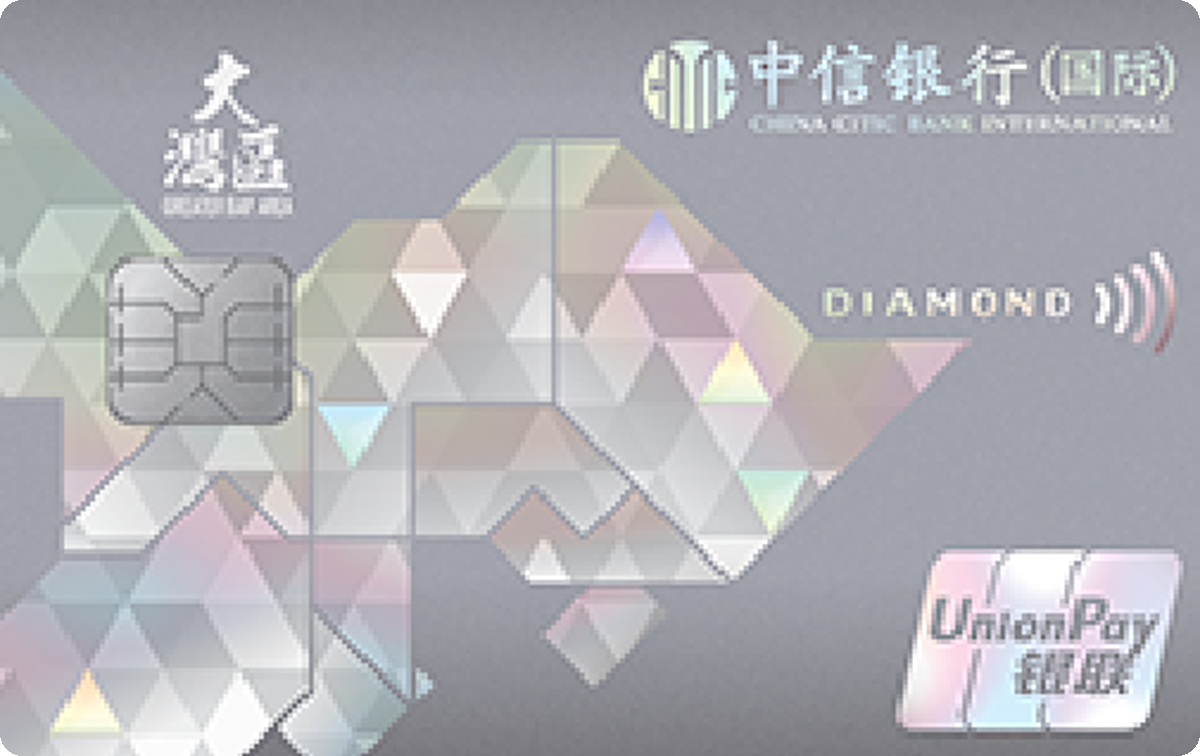
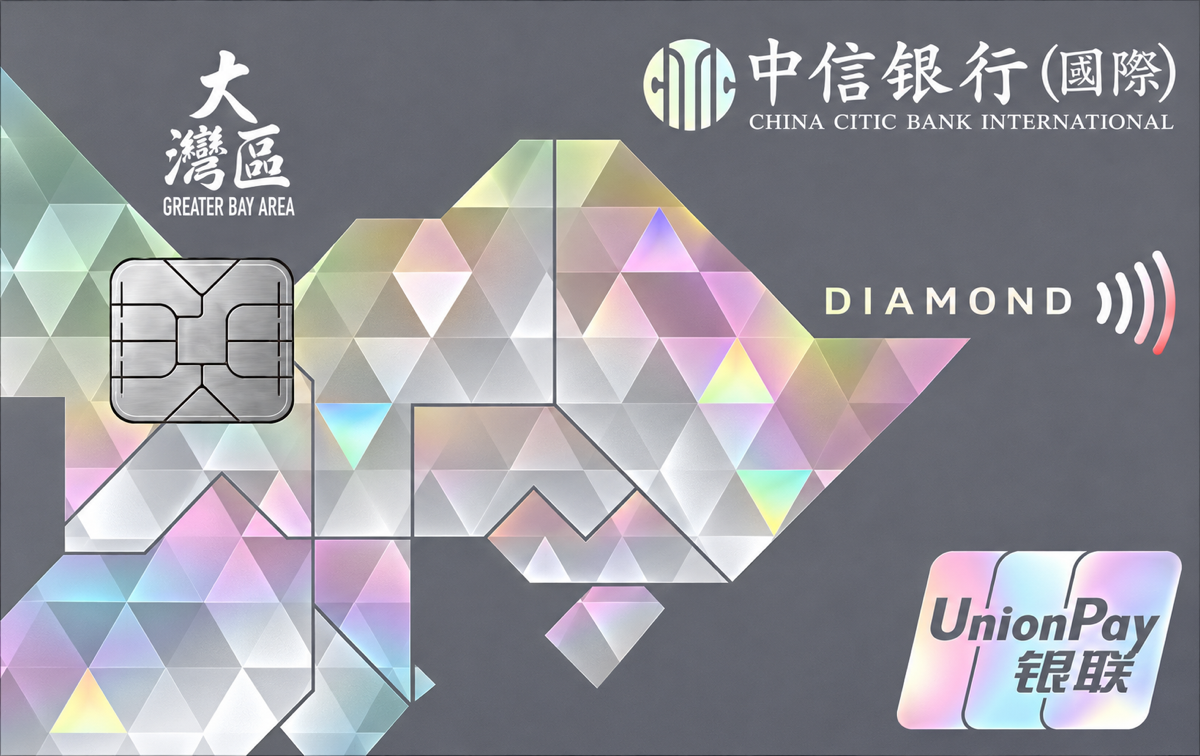
Replace blurry GBA card artwork with crisp reference-based assets (#9)

diff --git a/docs/artwork-2026-11-03.md b/docs/artwork-2026-11-03.md
@@ -1,0 +1,32 @@
+# GBA 卡面清晰化
+
+日期：2026-11-03。用户明确要求用 imagegen 重绘并覆盖模糊的两张现有素材。只更换图片和资源哈希，不改银行、产品、等级、活动或使用指南。版本 2026110301，8 家银行 / 24 产品。
+
+两张均为参考原卡面重新生成的清晰示意，非银行新发布原图；按自用约定不在 App 产品说明中显示制作标注。本文件保存来源与提示词供维护。
+
+## 大湾区青年卡 · bochk.gba.youth
+
+- 官方产品页：https://www.bochk.com/tc/creditcard/details/cobrand/cobrand/gbayouth.html
+- 官方样图：https://www.bochk.com/dam/boccreditcard/cardproductlisting/images/layout/credit-card/cardType_219.png
+- 本次核对官网横幅：https://www.bochk.com/dam/boccreditcard/cbc/GBA_card_Large_banner_1920x280.jpg
+- 编辑参考：原资料库的 bochk-gba-youth.png，保留蓝紫地图、网络连线、GBA Youth／大灣區青年卡字样。去除示例头像、姓名、示例号码及二维码，不用生成头像替换，不添加原图未出现的品牌/卡组织标志。
+- 输出：images/cards/bochk-gba-youth.png，1200×756，PNG，SHA-256 50eaf87dc696d0e595e3ca30c39cca03f5fb0dac3a42a6a311932fd150ebe6b9。
+
+### imagegen 提示词
+
+Reconstruct a single clean sharp production card artwork based on the attached BOCHK GBA Youth card reference. Match this specific product's light cyan, ice blue and soft lavender Greater Bay Area silhouette map, geometric triangulated faceted background and fine white network nodes/connecting lines. Retain upper-left exactly 'GBA Youth' and '大灣區青年卡', upper-right exactly 'Be Together Go For Greater', with contactless glyph near the upper text. Restore these existing words and all graphics crisply at high resolution, not blurry pixel enlargement. Remove entirely the sample portrait/photo rectangle, QR code, the Chinese/English cardholder placeholder names and sample account/ID number from this reference; continue the same map/network background seamlessly through those removed regions, no substitute photo or codes. Do NOT invent additional bank logos, network logos, card numbers, expiry, names, tiers, benefits, labels or watermarks that aren't visible in the reference. One flat front-facing horizontal full-bleed rectangular card image, image aspect exactly 1200:756 (1.5873), artwork fills all edges, no external margins, no rounded canvas cutouts, no shadows, no perspective, no surrounding tabletop. Very crisp thin typography, smooth clean vector-like map facets, detailed luminous nodes, restrained metallic finish. This is the same card restored and anonymized for a personal catalog, not a redesigned unrelated bank card.
+
+## 信银国际 GBA 双币钻石卡 · cncbi.gba.dual
+
+- 官方来源页（沿用现有产品记录）：https://www.cncbinternational.com/personal/promotions/credit-card/tc/index.html?SOURCE=ATJ15
+- 原始来源说明：CardPilot docs/cncbi-library-research.md；现有素材为官方公开产品宣传图的裁切。本次以现有素材为编辑参考，没有声称获取新的官方高清原图。
+- 保留灰色底、幻彩几何图案、银行字标、DIAMOND 及银联标志；没有替换成其他等级或卡组织，不生成个人信息。
+- 输出：images/cards/cncbi-gba-dual.png，1200×756，PNG，SHA-256 d6d71bba947a67d8d87aae3c5a1c1eb193e8b9b67a365027216438db8c764611。
+
+### imagegen 提示词
+
+Create one crisp high-resolution faithful restoration of this exact CNCBI GBA UnionPay DIAMOND credit card face. The attached image is the edit target and visual reference, not an invitation to redesign. Match the graphite grey background, central/lower-left angular holographic pastel geometric Greater Bay Area artwork, silver smart chip at left, top-left 大灣區 / GREATER BAY AREA branding, top-right official 中信銀行(國際) and CHINA CITIC BANK INTERNATIONAL bank wordmark, DIAMOND at right with contactless symbol, bottom-right holographic UnionPay 銀聯 mark. Correctly retain bank, UnionPay card network, DIAMOND tier. Redraw every edge and letter cleanly rather than upscaling blurry pixels. One flat straight-on horizontal card face filling the entire image, exact aspect ratio 1200:756 (1.5873), square outer canvas, no outside background or margins, no shadow, no perspective or mockup, no added border. Do not add card numbers, cardholder names, expiry dates, CVV, portraits, QR codes, watermarks, invented benefits or any AI-generation label. Output a single production card artwork, sharp small typography and crisp metallic facets.
+
+## 导出与检查
+
+工具：内置 imagegen；原输出 1580×996，sips 导出统一1200×756后通过 scripts/catalog_asset.py 去元数据并重新编码。直接查看最终图片，核对横版铺满、无外部留白、文字与主要图案、无个人字段；尺寸校验不替代视觉检查。银行独立 Logo 文件未修改。
